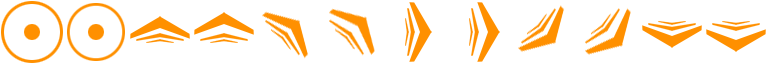
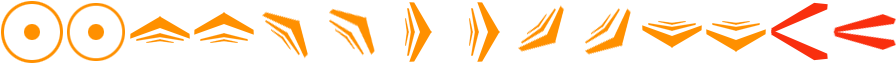
Changes to player, projectiles
Added some lines to game and loading as well

diff --git a/projectiles.js b/projectiles.js
@@ -1,13 +1,15 @@
 // functions and variables for every type of projectile put in arrays for easy calling
-var projectileTypeCount = 6,
+var projectileTypeCount = 3,
     projectileFireRates = [15, 30, 20, 15, 20, 30, 25, 10],
     createProjectileHandlers = [createProjectile1, createProjectile2, createProjectile3, createProjectile4, createProjectile5, createProjectile6];
 
 // other variables
 var selectedProjectile = 0,
-    maxProjectileCount = 10,
+    maxProjectileCount = 50,
     projectileDelay = 0,
     fireRate = projectileFireRates[selectedProjectile];
+
+var projectiles = [];
 
 function updateProjectiles() {
     'use strict';
@@ -29,12 +31,50 @@ function changeProjectileSelected(newProjectileSelected) {
     }
 }
 
+function swapProjectile() {
+    'use strict';
+    changeProjectileSelected(selectedProjectile + 1);
+}
+
 function playerShoot() {
     'use strict';
     if (projectileDelay >= fireRate) {
         createProjectileHandlers[selectedProjectile]();
         projectileDelay = 0;
+        return true;
     }
+    return false;
+}
+
+//----------------------------------------------------------------
+// basic projectiles
+// initialise projectiles
+function initProjectiles() {
+    'use strict';
+    var i;
+    projectiles.length = maxProjectileCount;
+    for (i = 0; i < maxProjectileCount; i += 1) {
+        projectiles[i] = maingroup.create(0, 0, 'projectilesheet', 0);
+        game.physics.arcade.enable(projectiles[i]);
+        projectiles[i].anchor.setTo(0.0, 1.0);
+        projectiles[i].checkWorldBounds = true;
+        projectiles[i].outOfBoundsKill = true;
+        projectiles[i].kill();
+    }
+}
+
+function getProjectile() {
+    'use strict';
+    var i,
+        p = null;
+    
+    for (i = 0; i < maxProjectileCount; i += 1) {
+        if (projectiles[i].alive === false) {
+            p = projectiles[i];
+            return p;
+        }
+    }
+    return p;
 }
 
 //----------------------------------------------------------------
@@ -42,11 +82,15 @@ function playerShoot() {
 function createProjectile1() {
     'use strict';
     var p;
-    p = maingroup.create(player.body.x, player.body.y - 16, 'projectilesheet', 0);
-    game.physics.arcade.enable(p);
-    p.collideHandler = collisionProjectile1;
-    p.anchor.setTo(0.0, 1.0);
-    p.body.velocity.x = 500;
+    p = getProjectile();
+    if (p) {
+        p.angle = 0;
+        p.body.angle = 0;
+        p.collideHandler = collisionProjectile1;
+        p.frame = 0;
+        p.reset(player.body.x, player.body.y);
+        p.body.velocity.x = 800;
+    }
 }
 
 function collisionProjectile1(p, q) {
@@ -57,7 +101,14 @@ function collisionProjectile1(p, q) {
 // projectile type 2
 function createProjectile2() {
     'use strict';
-    child.collideHandler = collisionProjectile1;
+    var p;
+    p = getProjectile();
+    if (p) {
+        p.collideHandler = collisionProjectile2;
+        p.frame = 1;
+        p.reset(player.body.x, player.body.y);
+        p.body.velocity.x = 500;
+    }
 }
 
 function collisionProjectile2(p, q) {
@@ -68,7 +119,14 @@ function collisionProjectile2(p, q) {
 // projectile type 3
 function createProjectile3() {
     'use strict';
-    child.collideHandler = collisionProjectile1;
+    var p;
+    p = getProjectile();
+    if (p) {
+        p.collideHandler = collisionProjectile3;
+        p.frame = 2;
+        p.reset(player.body.x, player.body.y);
+        p.body.velocity.x = 500;
+    }
 }
 
 function collisionProjectile3(p, q) {
@@ -79,7 +137,7 @@ function collisionProjectile3(p, q) {
 // projectile type 4
 function createProjectile4() {
     'use strict';
-    child.collideHandler = collisionProjectile1;
+    //child.collideHandler = collisionProjectile1;
 }
 
 function collisionProjectile4(p, q) {
@@ -90,7 +148,7 @@ function collisionProjectile4(p, q) {
 // projectile type 5
 function createProjectile5() {
     'use strict';
-    child.collideHandler = collisionProjectile1;
+    //child.collideHandler = collisionProjectile1;
 }
 
 function collisionProjectile5(p, q) {
@@ -101,7 +159,7 @@ function collisionProjectile5(p, q) {
 // projectile type 6
 function createProjectile6() {
     'use strict';
-    child.collideHandler = collisionProjectile1;
+    //child.collideHandler = collisionProjectile1;
 }
 
 function collisionProjectile6(p, q) {

diff --git a/player.js b/player.js
@@ -1,4 +1,7 @@
-var playerMoveSpeed = 200;
+var playerMoveSpeed = 200,
+    pi_allowAnimation;
+
+var kc_leftKey;
 
 function initPlayer() {
     'use strict';
@@ -16,14 +19,21 @@ function initPlayer() {
     player.animations.add('character_move_right', [6, 7]);
     player.animations.add('character_move_down_right', [8, 9]);
     player.animations.add('character_move_down', [10, 11]);
+    player.animations.add('character_shoot', [12, 13]);
+    
+    player.events.onAnimationComplete.add(allowPlayerAnimation, this);
     
     // add it to maingroup
     maingroup.add(player);
+    
+    pi_allowAnimation = true;
+    
+    kc_leftKey = game.input.keyboard.addKey(Phaser.Keyboard.LEFT);
+    kc_leftKey.onDown.add(swapProjectile, this);
 }
 
 // --------------------------------------------------------------------------------------
 // player input function(s)
-
 function checkPlayerInput() {
     'use strict';
     var movementAngle = 90,
@@ -58,9 +68,10 @@ function checkPlayerInput() {
     
     // shooting
     if (game.input.keyboard.isDown(Phaser.Keyboard.SPACEBAR)) {
-        playerShoot();
-        //player.animations.play('character_shoot', 10, false);
-        // enabletimer?
+        if (playerShoot()) {
+            player.animations.play('character_shoot', 10, false);
+            pi_allowAnimation = false;
+        }
     }
 }
 
@@ -71,29 +82,40 @@ var pi_oldPlayerAngle = 90,
 
 function animatePlayer(movement, angle) {
     'use strict';
-    if (angle !== pi_oldPlayerAngle || movement !== pi_oldM) {
-        switch (angle) {
-        case 180:
-            player.animations.play('character_move_up', 10, true);
-            break;
-        case 135:
-            player.animations.play('character_move_up_right', 10, true);
-            break;
-        case 90:
-            player.animations.play('character_move_right', 10, true);
-            break;
-        case 45:
-            player.animations.play('character_move_down_right', 10, true);
-            break;
-        case 0:
-            player.animations.play('character_move_down', 10, true);
-            break;
-        }
+    // if angle hasn't changed or there is no movement, don't change animation
+    if ((angle !== pi_oldPlayerAngle || movement !== pi_oldM) && pi_allowAnimation === true) {
+        setPlayerAnimations(movement === 0 && pi_oldM === 1, angle);
     }
     pi_oldPlayerAngle = angle;
+    pi_oldM = movement;
+}
+
+function setPlayerAnimations(movement, angle) {
+    switch (angle) {
+    case 180:
+        player.animations.play('character_move_up', 10, true);
+        break;
+    case 135:
+        player.animations.play('character_move_up_right', 10, true);
+        break;
+    case 90:
+        player.animations.play('character_move_right', 10, true);
+        break;
+    case 45:
+        player.animations.play('character_move_down_right', 10, true);
+        break;
+    case 0:
+        player.animations.play('character_move_down', 10, true);
+        break;
+    }
     // change animation if there is no motion
-    if (movement === 0 && pi_oldM === 1) {
+    if (movement) {
         player.animations.play('character_idle', 10, true);
     }
-    pi_oldM = movement;
+}
+
+function allowPlayerAnimation() {
+    'use strict';
+    pi_allowAnimation = true;
+    setPlayerAnimations(pi_oldM === 0, pi_oldPlayerAngle);
 }

diff --git a/loading.js b/loading.js
@@ -8,7 +8,7 @@ var loading = function (game) {
 
 loading.prototype = {
     preload: function () {
-    	'use strict';
+        'use strict';
         // set up loading bar graphic
         var loadingBar = this.add.sprite(this.game.world.centerX, this.game.world.centerY, "loadBar");
         loadingBar.anchor.setTo(0.5, 0.5);
@@ -16,7 +16,7 @@ loading.prototype = {
         
         // insert the loading of all assets after this line, :
         this.load.spritesheet('charactersheet', 'assets/charactersheet.png', 64, 64);
-        this.load.spritesheet('projectilesheet', 'assets/projectilesheet.png', 48, 24);
+        this.load.spritesheet('projectilesheet', 'assets/projectilesheet.png', 48, 64);
         // this.load.image('assetname', 'assets/ts_t0.png', 48, 48);
 
 // hey Elroy

diff --git a/game.js b/game.js
@@ -11,6 +11,7 @@ runner.prototype = {
         'use strict';
         game.stage.backgroundColor = "#9d00ff";
         maingroup = game.add.group();
+        initProjectiles();
         initPlayer();
     },
     
